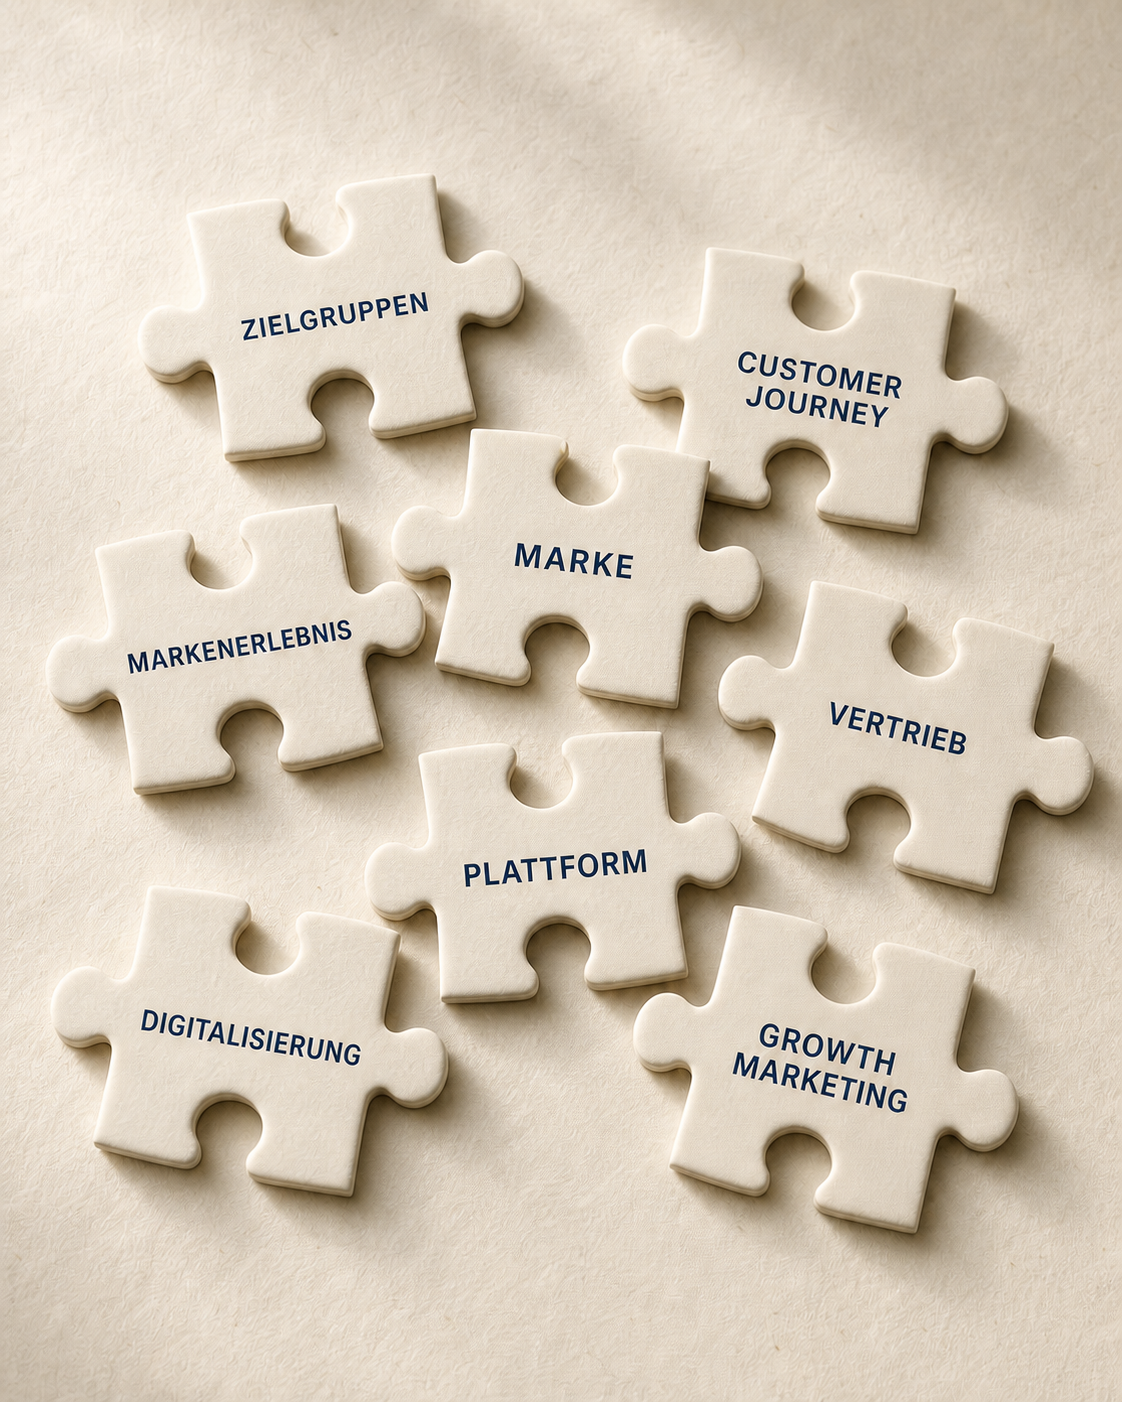
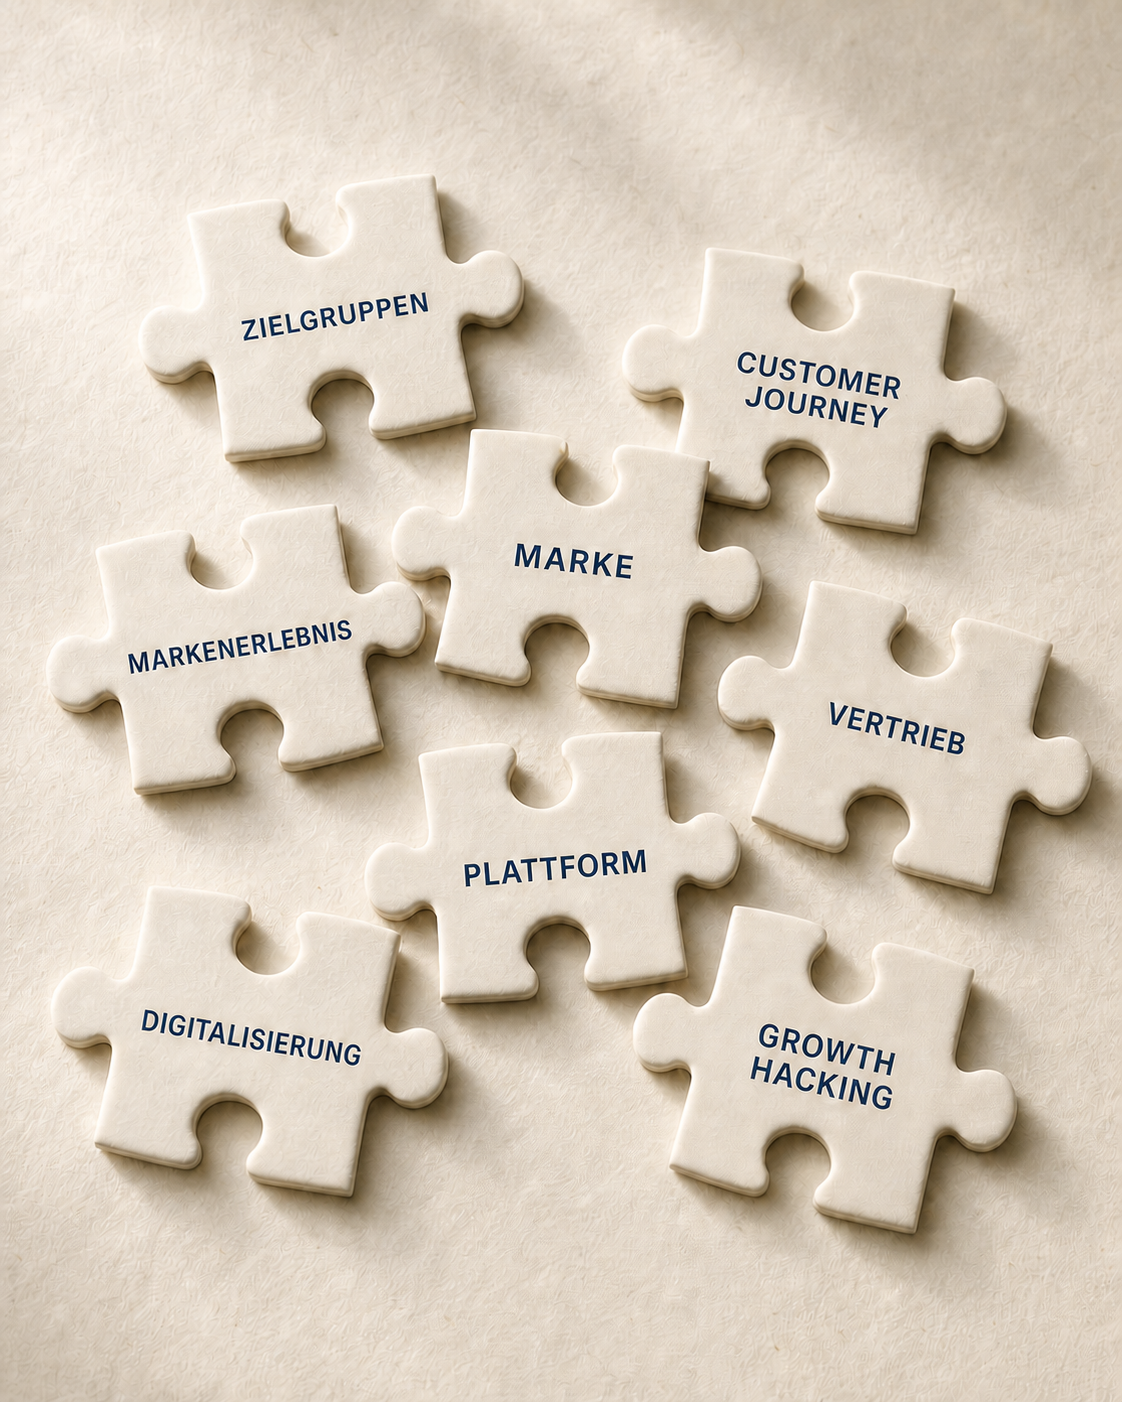
Growth Hacking

diff --git a/index.html b/index.html
@@ -555,7 +555,7 @@
         <p>Drei Jahre lang habe ich ein Technologie-Start-up für digitale Markenerlebnisse geführt. Die Aufgabe war keine abstrakte Digitalisierung, sondern permanentes Growth Marketing: Anwendungsfälle entwickeln, Partner gewinnen, Zielgruppen aktivieren und den Nutzen einer Augmented-Reality-Anwendung für Marken und ihre Kunden verständlich machen.</p>
         <p>Diese Erfahrung prägt meine Arbeit bis heute. Ich sehe digitale Kanäle nicht als Selbstzweck, sondern als Teil einer Customer Journey, die Menschen vom ersten Interesse bis zur Handlung begleiten. Plattformmärkte und digitale Vertriebslogik kann ich deshalb aus der Perspektive von Marke, Vermarktung und Nutzererlebnis einordnen und bewerten. Daraus lassen sich Maßnahmen entlang der Customer Journey gezielter steuern.</p>
       </div>
-      <img class="growth-image" src="images/digitale-wachstumsarbeit-puzzle-praxis.png?v=20260729-1" alt="Lose angeordnete Puzzleteile für Zielgruppen, Customer Journey, Marke, Markenerlebnis, Vertrieb, Plattform, Digitalisierung und Growth Marketing">
+      <img class="growth-image" src="images/digitale-wachstumsarbeit-puzzle-praxis.png?v=20260730-1" alt="Lose angeordnete Puzzleteile für Zielgruppen, Customer Journey, Marke, Markenerlebnis, Vertrieb, Plattform, Digitalisierung und Growth Hacking">
     </div>
     <p class="growth-lead-in">Für den Erfolg sind drei Dinge entscheidend:</p>
     <div class="growth-points" aria-label="Drei Schwerpunkte digitaler Wachstumsarbeit">
